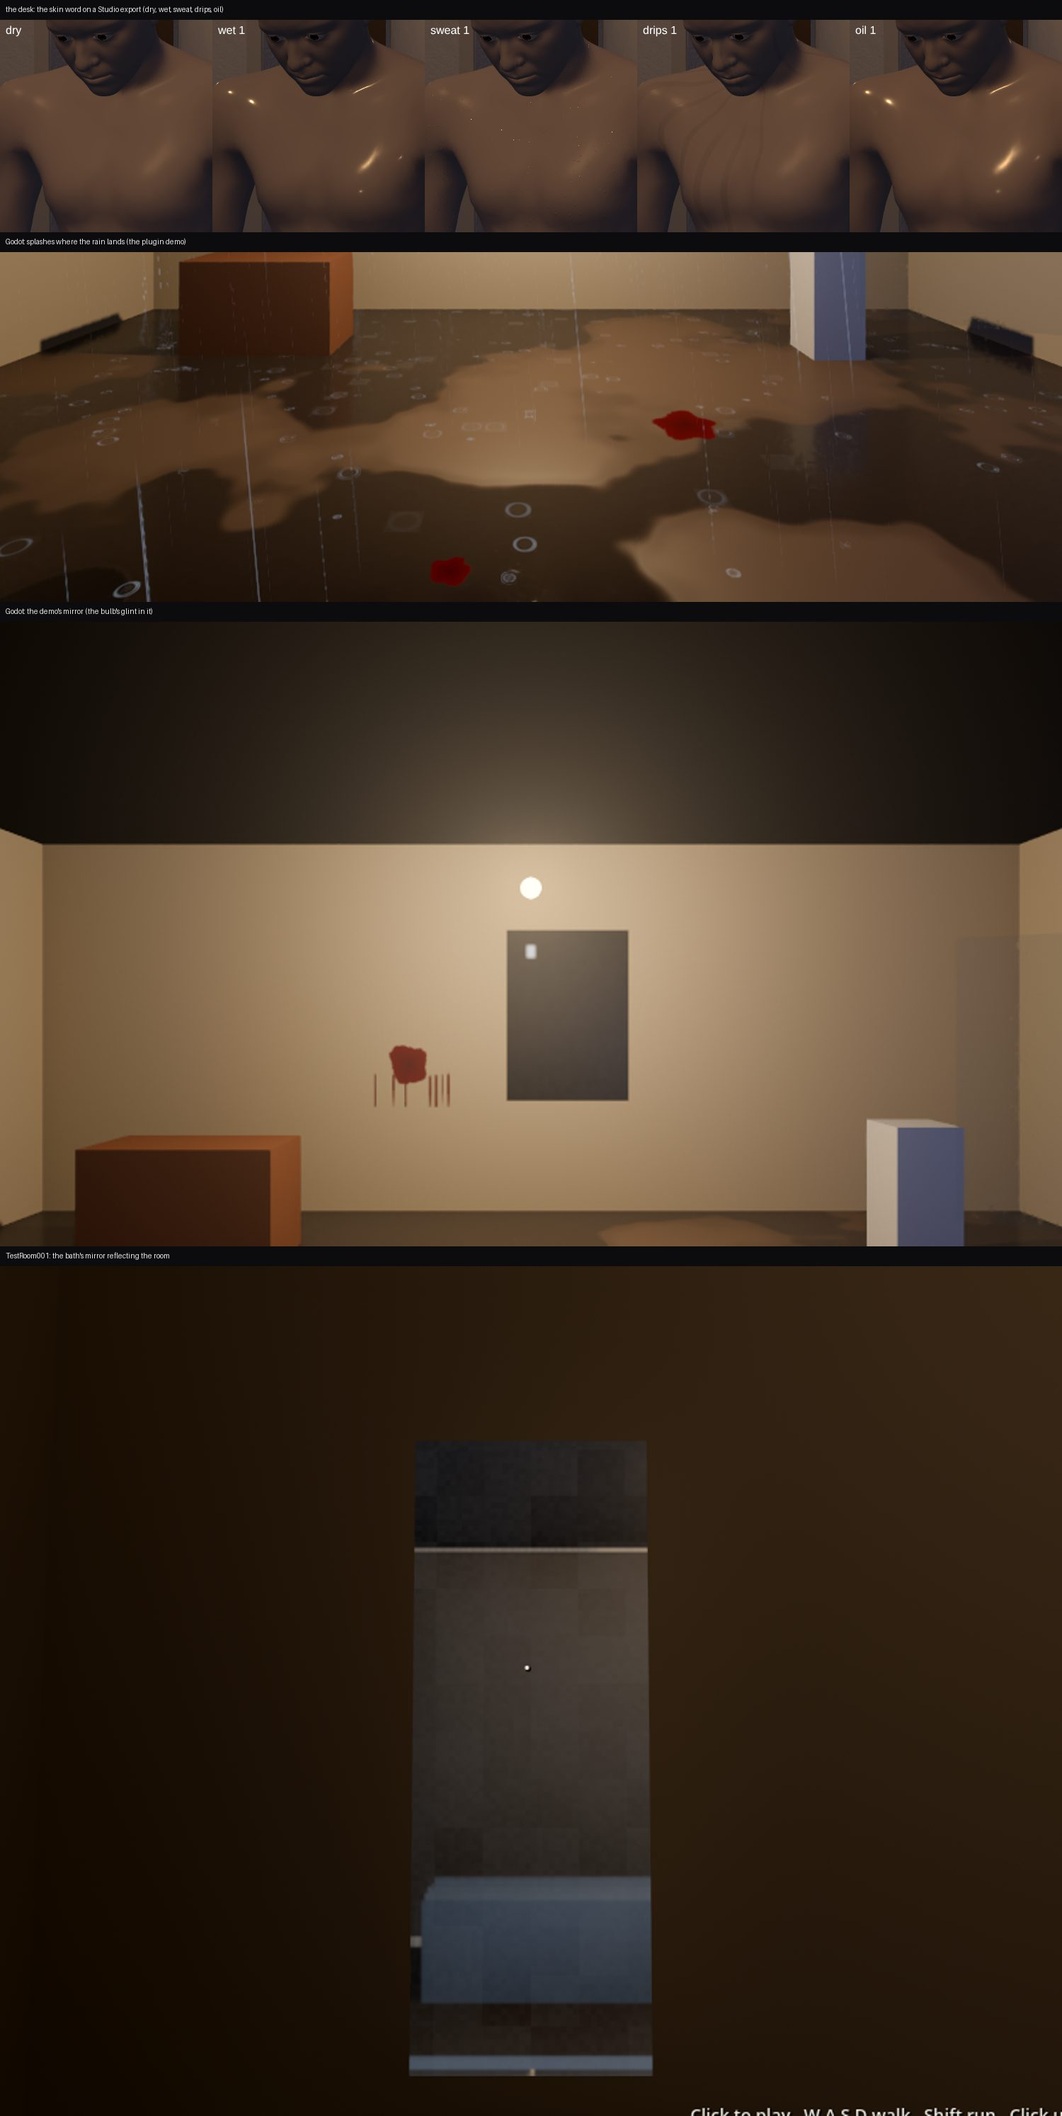
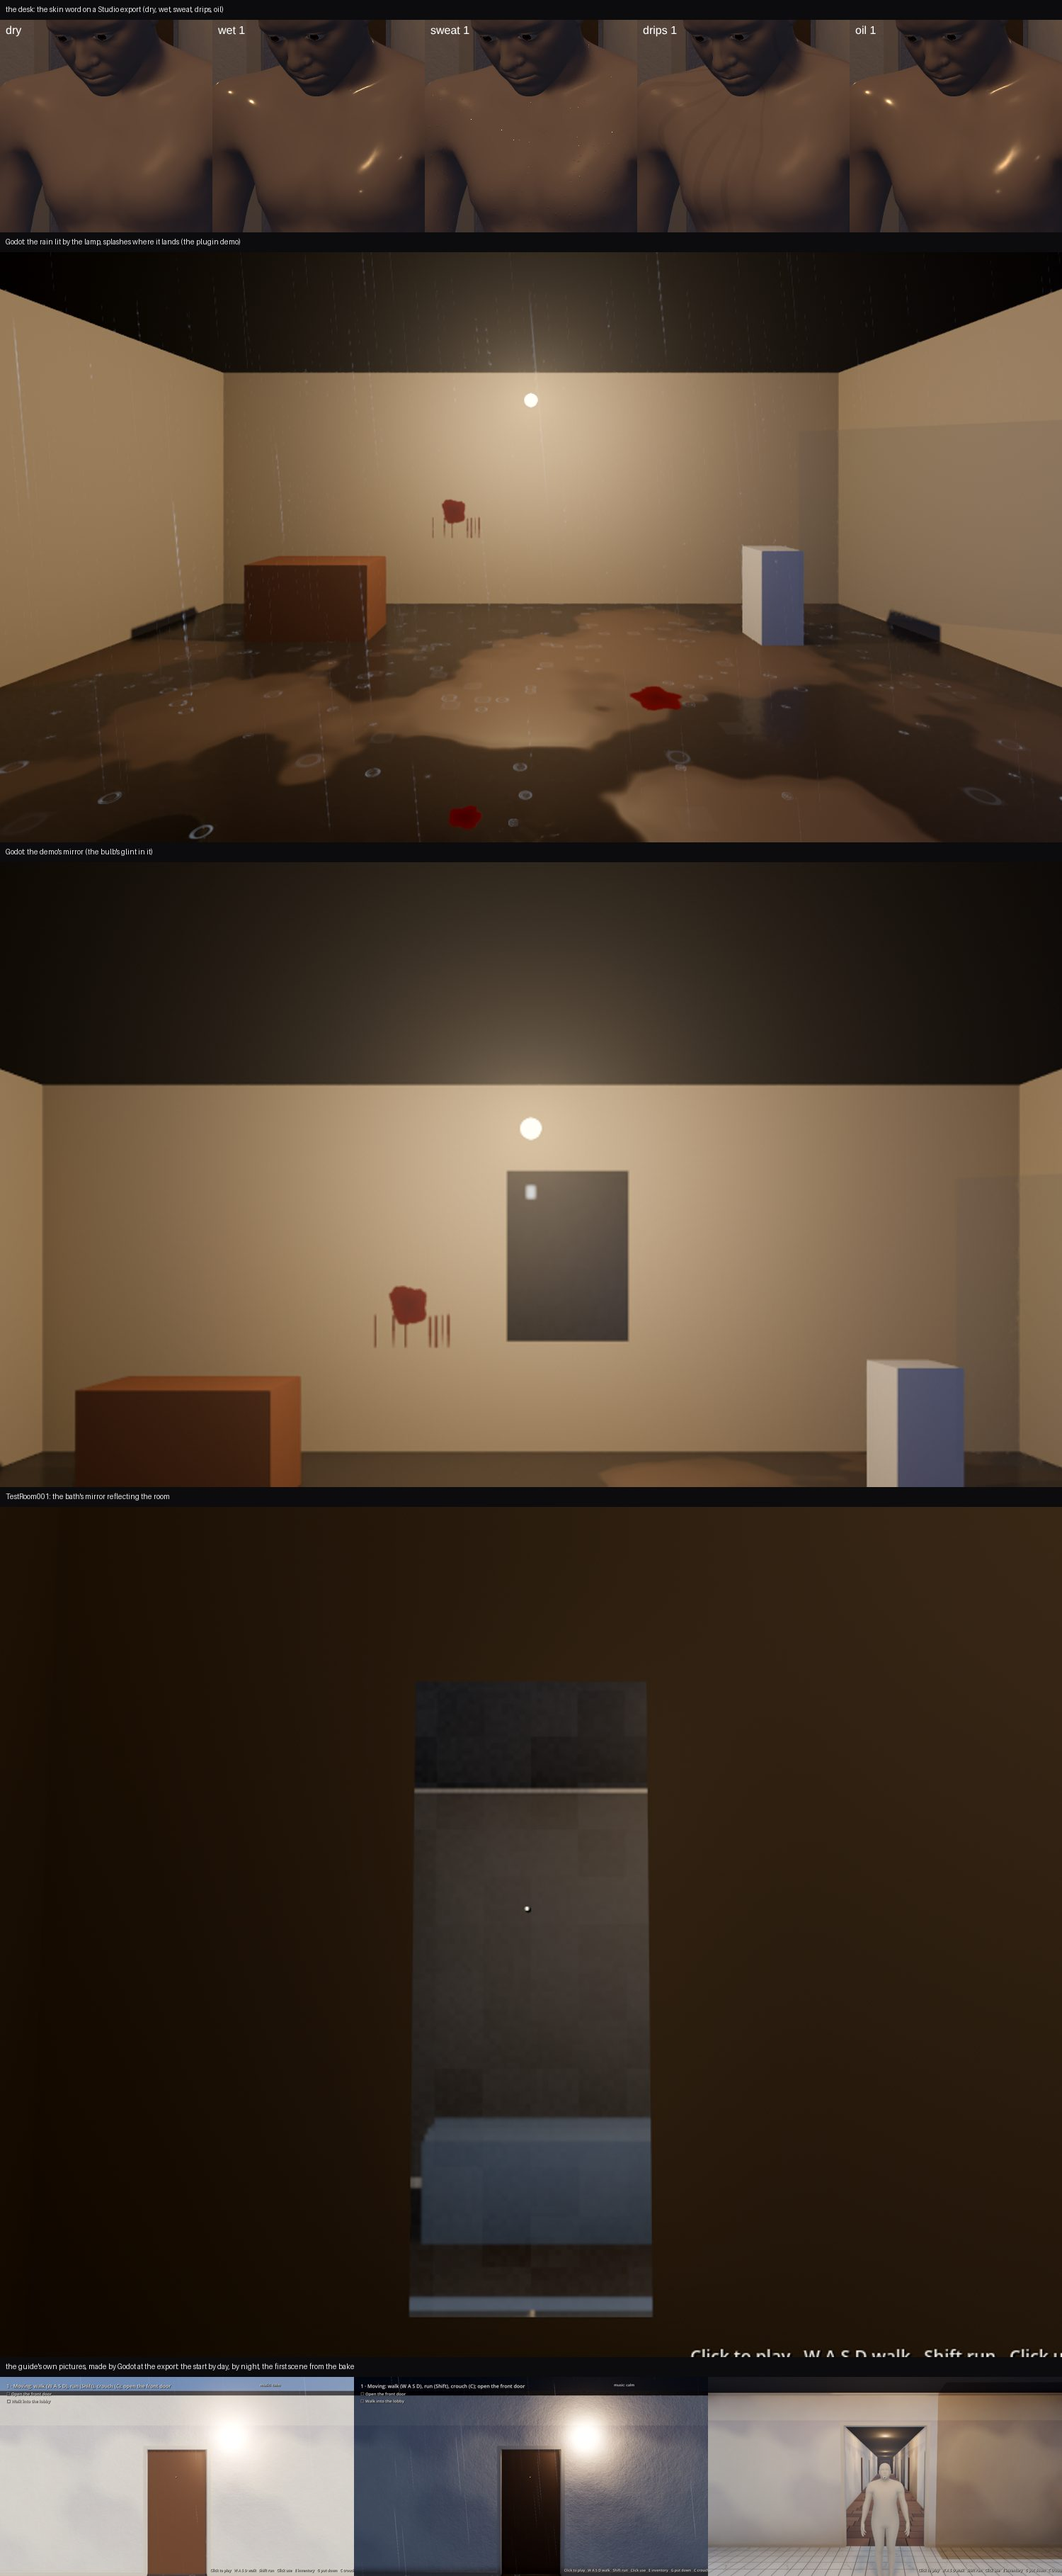
A room's own wet word (STORY_FORMAT 2): a wet floor without rain, 0..1 (the check): the Godot export wears the wet shader on it by that much with no rain's rings, and from 0.5 every step in the room is a wet one, on the desk's Play too; TestRoom001's bath is 0.8 (GDTESTROOM checks its floor and TEST
Claude-Session: https://claude.ai/code/session_014EE6XX4YZUtcfj7aXd8rgR

diff --git a/tools/director/play/steps.js b/tools/director/play/steps.js
@@ -18,8 +18,10 @@ const pick = (k, fam) => {                         // one of the family's sounds
   let i = Math.floor(Math.random() * (prev >= 0 ? n - 1 : n)); if (prev >= 0 && i >= prev) i++;
   k.fam = fam; k.i = i; return `${fam}_${String(i + 1).padStart(2, "0")}`;
 };
-// standing in a room with no ceiling while the game's weather is rain (the Godot export's yard: the same rule there)
-const inRain = rt => { const lv = (rt.story.levels || {})[rt.level] || {}; return (lv.weather ?? (rt.story.game || {}).weather) === "rain" && (lv.rooms || []).some(r => r.ceiling === false && rt.inside.has(r.id)); };
+// standing on wet ground: a room with no ceiling while the weather (the level's, else the game's) is rain, or a room
+// whose own `wet` is 0.5 or more (STORY_FORMAT §2); the Godot export's rule too
+const onWet = rt => { const lv = (rt.story.levels || {})[rt.level] || {}, rain = (lv.weather ?? (rt.story.game || {}).weather) === "rain";
+  return (lv.rooms || []).some(r => rt.inside.has(r.id) && ((rain && r.ceiling === false) || +(r.wet || 0) >= 0.5)); };
 register("ability", "steps", {
   // stride, run, crouch: metres a step walking, running and crouched; db, runDb, crouchDb: how loud against the shelf's
   // own level; creak: the chance a step on wood creaks; castStride, castDb: the cast's (placed: fainter with distance)
@@ -35,7 +37,7 @@ register("ability", "steps", {
     rt.stepAt -= 1;
     const floor = rt.floorUnder();
     let fam = FLOOR_STEPS[floor] || "step_wood";
-    if (inRain(rt)) fam = "step_wet";                // out in the rain: the ground's wet whatever it is (game.weather, a room with no ceiling)
+    if (onWet(rt)) fam = "step_wet";                 // wet ground: out in the rain, or a room with its own `wet`
     if (fam === "step_wood" && Math.random() < s.creak) fam = "step_creaky";
     const k = rt.lastStep || {}, name = pick(k, fam);
     rt.lastStep = { fam, i: k.i, name, floor, clock: rt.clock }; rt.stepCount = (rt.stepCount || 0) + 1;

diff --git a/tools/story_check.py b/tools/story_check.py
@@ -308,6 +308,9 @@ def check_world(story, things, r):
                         r.err(f"room {rm['id']}: trim {k}: {v!r} (skirting, cornice, casing, threshold: heights or widths in metres, 0 for none)")
             if rm.get("kind") is not None and rm["kind"] not in L.ROOM_KINDS:
                 r.warn(f"room {rm['id']}: kind {rm['kind']!r} isn't one of {', '.join(L.ROOM_KINDS)}")
+            wet = rm.get("wet")                             # a wet floor without rain (§2: pools in Godot, wet steps from 0.5)
+            if wet is not None and not (isinstance(wet, (int, float)) and 0 <= wet <= 1):
+                r.err(f"room {rm['id']}: wet {wet!r}: a number 0..1")
             for op in rm.get("openings", []):
                 if op.get("wall") not in L.WALLS:
                     r.err(f"room {rm['id']}: opening wall {op.get('wall')!r}")

diff --git a/docs/CONTINUE.md b/docs/CONTINUE.md
@@ -52,7 +52,9 @@ for a search on realistic smoke and steam (docs/research/godot_smoke.md). Built,
   a viewport of its own, every kit mirror in a game; the bath's checked, a picture of it in the guide); the rain
   heard all round you in its room and every step there wet (the desk too); a level's own `weather`; LightmapGI
   ruled out (editor-only); the rain lit by the lights that reach it; the re-export's receipt leaving Godot's
-  sidecars alone (they'd been taken for stale). The morning's pictures: `docs/godot_sheets/2026-10-29_morning.jpg`.
+  sidecars alone (they'd been taken for stale); the mirrors on the menu's Reflections row; the guide's own pictures
+  made at the export (`--pictures`, the desk's button too); a room's own `wet` (the bath). The morning's pictures:
+  `docs/godot_sheets/2026-10-29_morning.jpg`.
 **Open, for the user:** a run on the 3090 (`python tools/godot_export.py --game TestRoom001 --testroom`, then the
 game itself: `godot --path Saved/Godot/TestRoom001`; the cost of the realism preset with nineteen VoxelGIs, the rain
 and the wet floors there; `tools/godot/plugin_check.py` and `people_check.py` for the plugin's pictures), a look at

diff --git a/docs/DECISIONS.md b/docs/DECISIONS.md
@@ -19,7 +19,9 @@ The user's answers, newest first. They override the plan, the research and the d
   view; a mirror's own wall and itself kept out of its picture, so two mirrors in one room is for later; a second
   render of the room per mirror in view: a bathroom's worth, not a hall of them); rain splashes where it lands; in
   the rain's room the rain is heard all round you and every step is a wet one, on the desk too; a level's own
-  `weather` over the game's (STORY_FORMAT §2). LightmapGI stays out: its bake is editor-only in 4.7.
+  `weather` over the game's and a room's own `wet` (a bathroom's floor without rain: STORY_FORMAT §2); the desk's
+  Godot button has Godot make the guide's pictures when it's on the machine (seconds on a card). LightmapGI stays
+  out: its bake is editor-only in 4.7.
 
 ## 2026-10-28, late night (Godot: Claude's picks, parity first)
 

diff --git a/docs/STORY_FORMAT.md b/docs/STORY_FORMAT.md
@@ -86,6 +86,10 @@ The **flow** joins scenes and stitches with **choices** and ends at **endings**.
   builder colours and labels by it and gives some kinds their built-ins (below); `name` is its label (optional,
   any text, Japanese welcome); `dir` is the way a `stairs` room climbs (`n e s w`).
 - `ceiling: false` for outdoors.
+- `wet` (0..1, optional): a wet floor without rain (a bathroom, a cellar): in the Godot export the floor wears the
+  look plugin's wet (the damp darkening, pools that carry the lights, no rings: GODOT_LOOK §2) by that much, and from
+  0.5 every step in the room is a wet one, on the desk's Play too. (Rain, `game.weather`, wets a room with no
+  ceiling by itself.)
 - `look`: library texture sets for its surfaces, `{"floor": "ambientcg/WoodFloor041", "walls": "...", "ceiling": "..."}`
   (docs/ASSETS.md). Grey until fetched.
 

diff --git a/docs/GODOT_LOOK.md b/docs/GODOT_LOOK.md
@@ -65,6 +65,9 @@ beads above it, a second finer layer, and a mist of static droplets; each drop a
 seen through the glass (the screen behind, read through the drop's normal) and catches the lights; dry, the glass is
 clear with the room's lights in it. GDTESTROOM checks the lobby's two panes wear it with the rain on.
 
+A room's own `wet` (STORY_FORMAT §2, 2026-10-29: a bathroom's floor, a cellar's) wears the same shader by that
+much with no rain's rings, and from 0.5 the steps in it are wet ones; TestRoom001's bath is 0.8.
+
 ## 3. Blood (`blood.gdshader`, `HSBlood`)
 
 A splat drawn by the shader from a seed: a pool whose radius wanders with the angle (fbm, a few lobes), deep red in
